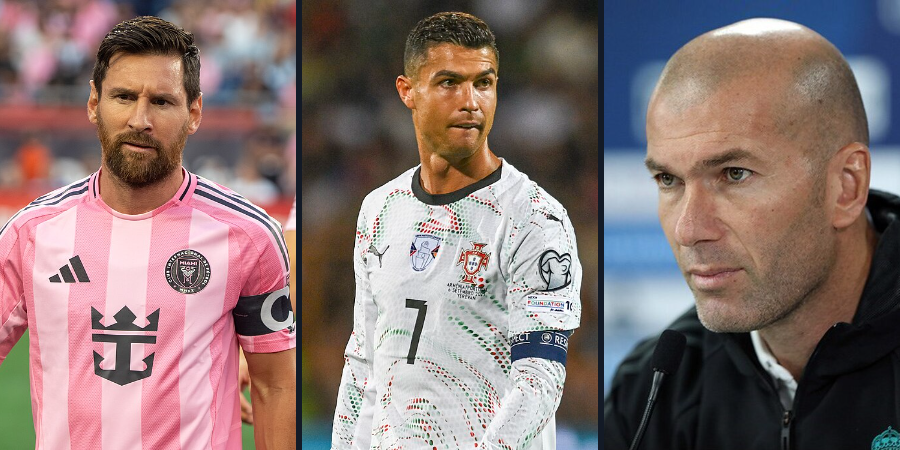
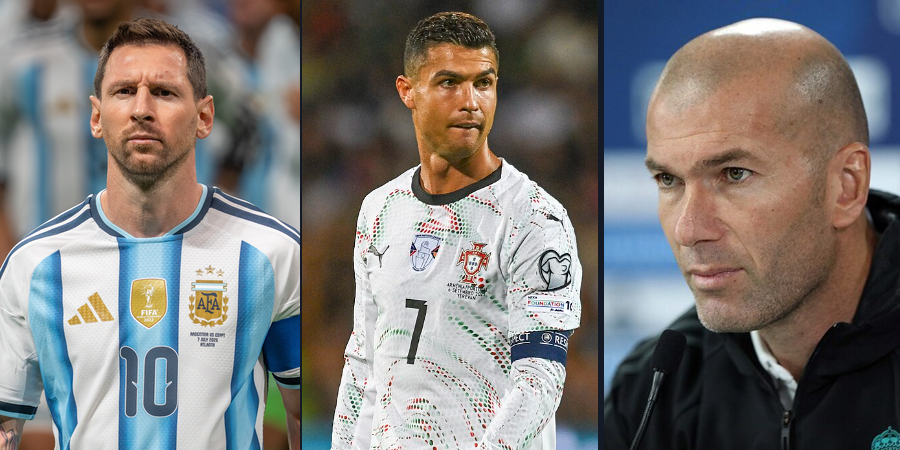
Kolaz pilkarzy: Messi w koszulce Argentyny (CC BY-SA) + atrybucja
- podmiana lewego panelu kolazu na zdjecie Messiego w barwach reprezentacji
  Argentyny (fot. Bryan Berlin / Wikimedia Commons, CC BY-SA 4.0, kadrowane)
- widoczna atrybucja zdjecia na dole strony Projekty (wymog licencji)

diff --git a/src/assets/css/style.css b/src/assets/css/style.css
@@ -419,6 +419,8 @@ h1, h2, h3, h4 { font-family: var(--naglowki); text-wrap: pretty; }
 }
 .projekty-github span { font-size: 14.5px; color: var(--tekst-2); }
 .projekty-github a { font-weight: 600; font-size: 14.5px; white-space: nowrap; }
+.projekty-kredyt { margin: 18px 0 0; font-size: 12px; line-height: 1.5; color: var(--wyciszony); }
+.projekty-kredyt a { color: var(--tekst-2); text-decoration: underline; }
 
 /* ---------- O mnie ---------- */
 .omnie-intro { padding-block: 72px 56px; display: grid; grid-template-columns: auto 1fr; gap: 64px; align-items: center; }
